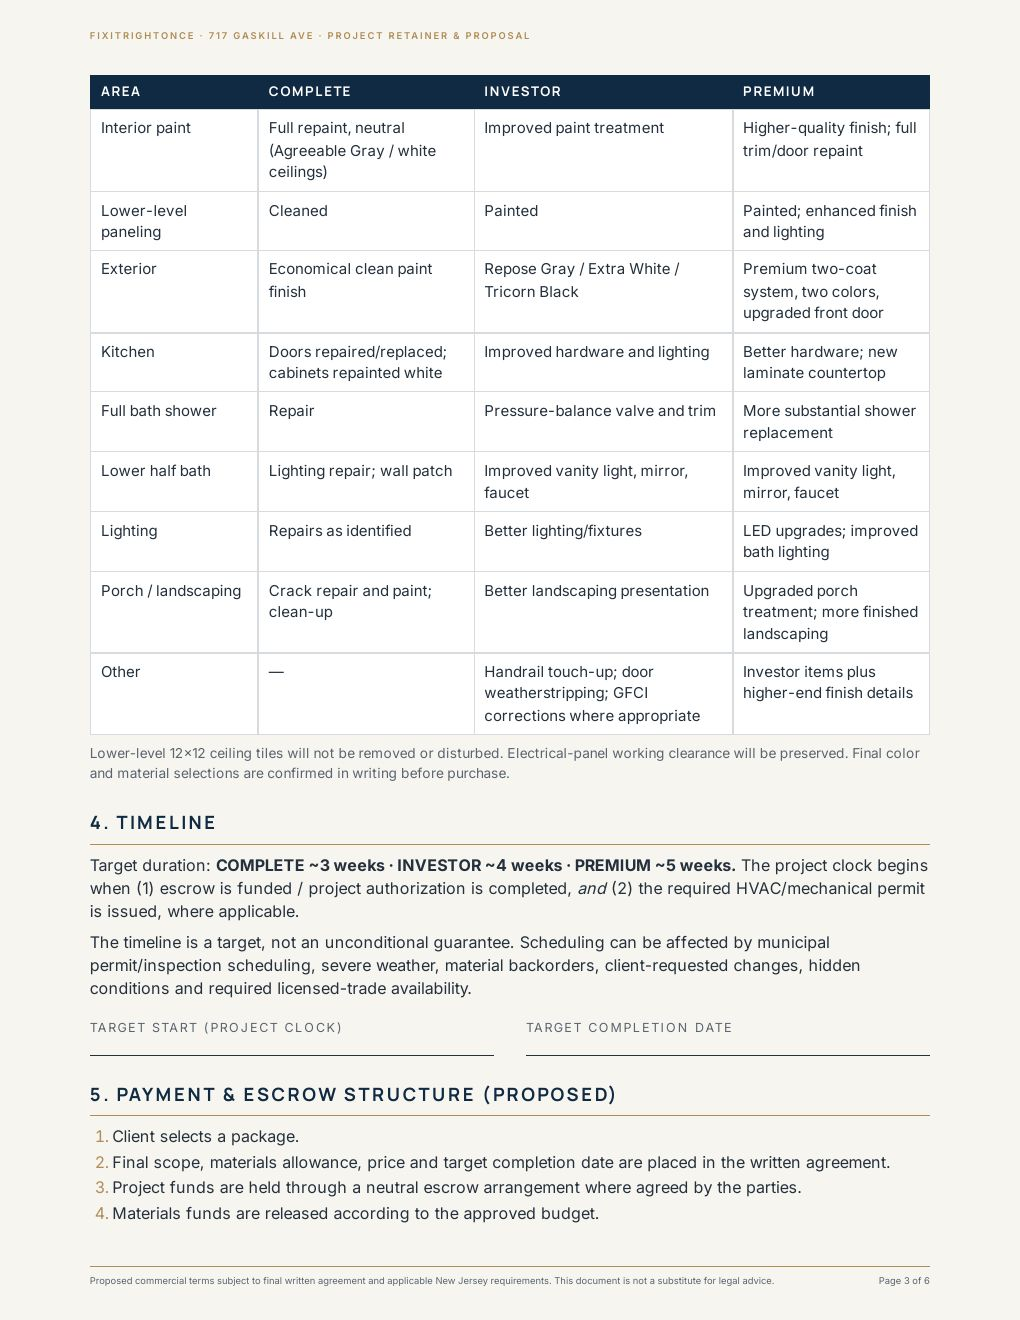
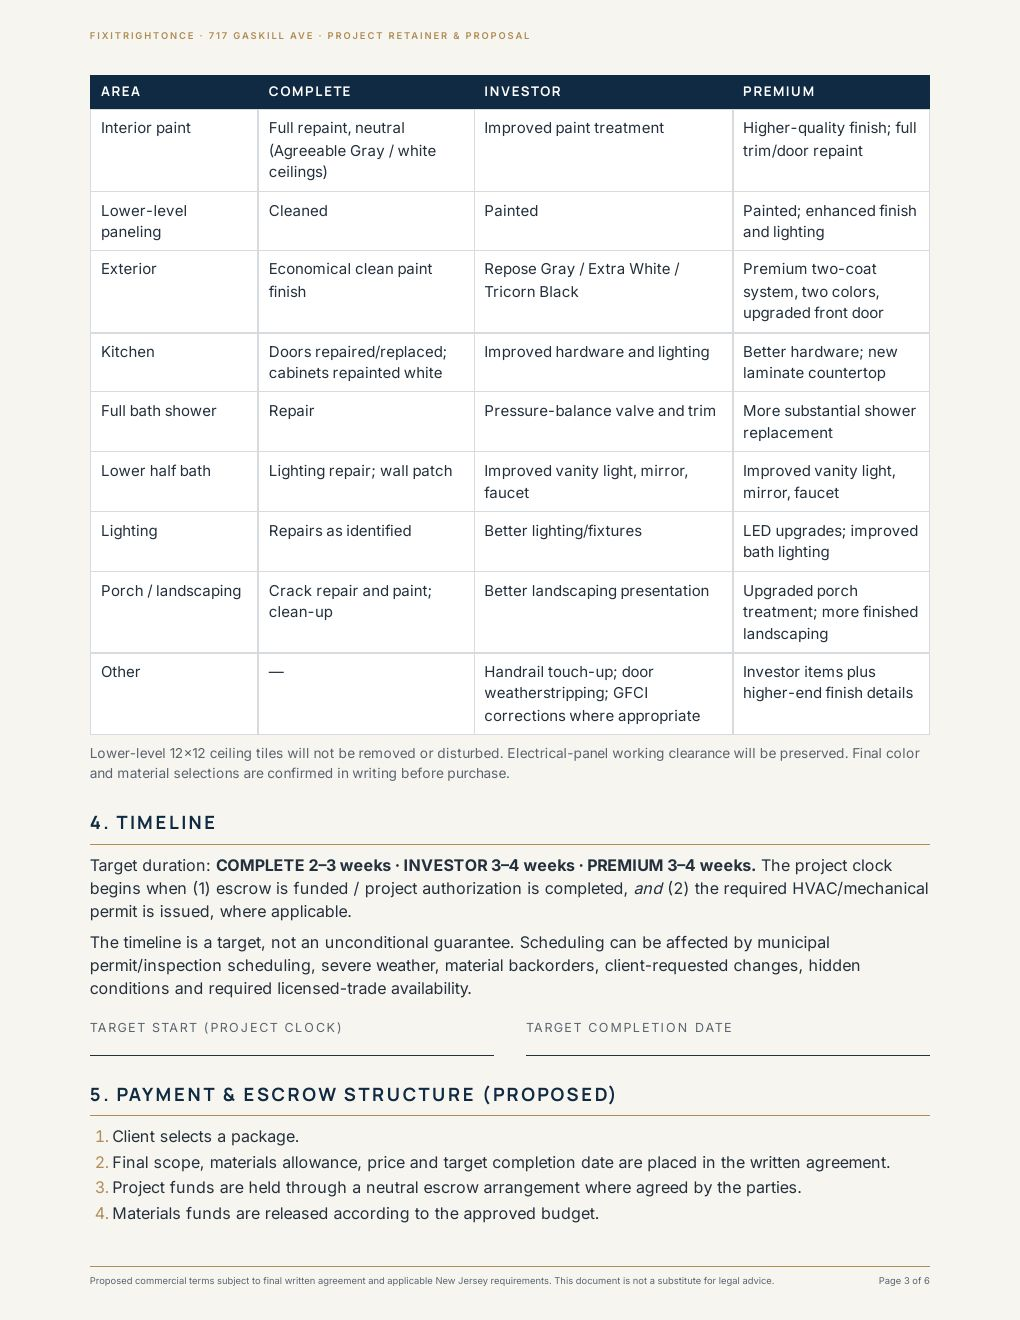
717 Gaskill: target durations 2-3 / 3-4 / 3-4 weeks
Claude-Session: https://claude.ai/code/session_01NLgoSYizUiw31tD78Qe9eR

Changed region(s): [[0.0912, 0.6523, 0.9118, 0.7144]]

diff --git a/projects/717-gaskill/investor/index.html b/projects/717-gaskill/investor/index.html
@@ -311,7 +311,7 @@
         <div class="stat" role="listitem"><b>~1,516 SF</b><span>Living area</span></div>
         <div class="stat" role="listitem"><b>~7,500 SF</b><span>Lot</span></div>
         <div class="stat" role="listitem"><b>3</b><span>Package options</span></div>
-        <div class="stat" role="listitem"><b>3–5 weeks</b><span>Target, by package</span></div>
+        <div class="stat" role="listitem"><b>2–4 weeks</b><span>Target, by package</span></div>
       </div>
     </div>
     <div class="hero-foot"></div>
@@ -411,7 +411,7 @@
           <div class="name">COMPLETE</div>
           <div class="tagline">Complete identified rehab</div>
           <div class="price">$16,450</div>
-          <div class="meta">~3 week target · includes 10% contingency allowance</div>
+          <div class="meta">2–3 week target · includes 10% contingency allowance</div>
           <p class="pos">Complete identified rehab using economical, functional materials.</p>
           <div class="base">Full identified scope of work included</div>
           <h4>Finish level</h4>
@@ -432,7 +432,7 @@
           <div class="name">INVESTOR</div>
           <div class="tagline">Upgraded resale presentation</div>
           <div class="price">$19,950</div>
-          <div class="meta">~4 week target · includes 10% contingency allowance</div>
+          <div class="meta">3–4 week target · includes 10% contingency allowance</div>
           <p class="pos">Complete rehab plus upgraded finishes and stronger resale presentation.</p>
           <div class="base">Everything in COMPLETE, plus:</div>
           <h4>Upgrades</h4>
@@ -453,7 +453,7 @@
           <div class="name">PREMIUM</div>
           <div class="tagline">Enhanced finish package</div>
           <div class="price">$26,400</div>
-          <div class="meta">~5 week target · includes 10% contingency allowance</div>
+          <div class="meta">3–4 week target · includes 10% contingency allowance</div>
           <p class="pos">Complete rehab plus premium finish selections and enhanced resale presentation.</p>
           <div class="base">Everything necessary included, plus:</div>
           <h4>Upgrades</h4>
@@ -512,7 +512,7 @@
             <tr><th scope="row">Extras</th><td>—</td><td class="rec">Handrail touch-up, weatherstripping, GFCI corrections where appropriate</td><td>All Investor extras + higher-end finish details</td></tr>
 
             <tr class="group"><td colspan="4">Schedule &amp; price</td></tr>
-            <tr><th scope="row">Target duration</th><td>~3 weeks</td><td class="rec">~4 weeks</td><td>~5 weeks</td></tr>
+            <tr><th scope="row">Target duration</th><td>2–3 weeks</td><td class="rec">3–4 weeks</td><td>3–4 weeks</td></tr>
             <tr><th scope="row">Contingency allowance</th><td>10% included</td><td class="rec">10% included</td><td>10% included</td></tr>
             <tr><th scope="row">Central A/C replacement</th><td colspan="3">Not included — conditional on testing (see below)</td></tr>
             <tr class="total"><th scope="row">Proposed price</th><td>$16,450</td><td class="rec">$19,950</td><td>$26,400</td></tr>
@@ -711,9 +711,9 @@
         <p class="lede">These are targets, not unconditional guarantees.</p>
       </div>
       <div class="tl">
-        <div class="card"><div class="eyebrow">COMPLETE</div><b>~3 weeks</b><div class="bar"><i style="width:60%"></i></div></div>
-        <div class="card"><div class="eyebrow">INVESTOR</div><b>~4 weeks</b><div class="bar"><i style="width:80%"></i></div></div>
-        <div class="card"><div class="eyebrow">PREMIUM</div><b>~5 weeks</b><div class="bar"><i style="width:100%"></i></div></div>
+        <div class="card"><div class="eyebrow">COMPLETE</div><b>2–3 weeks</b><div class="bar"><i style="width:75%"></i></div></div>
+        <div class="card"><div class="eyebrow">INVESTOR</div><b>3–4 weeks</b><div class="bar"><i style="width:100%"></i></div></div>
+        <div class="card"><div class="eyebrow">PREMIUM</div><b>3–4 weeks</b><div class="bar"><i style="width:100%"></i></div></div>
       </div>
       <div class="clock">
         <div class="card">
